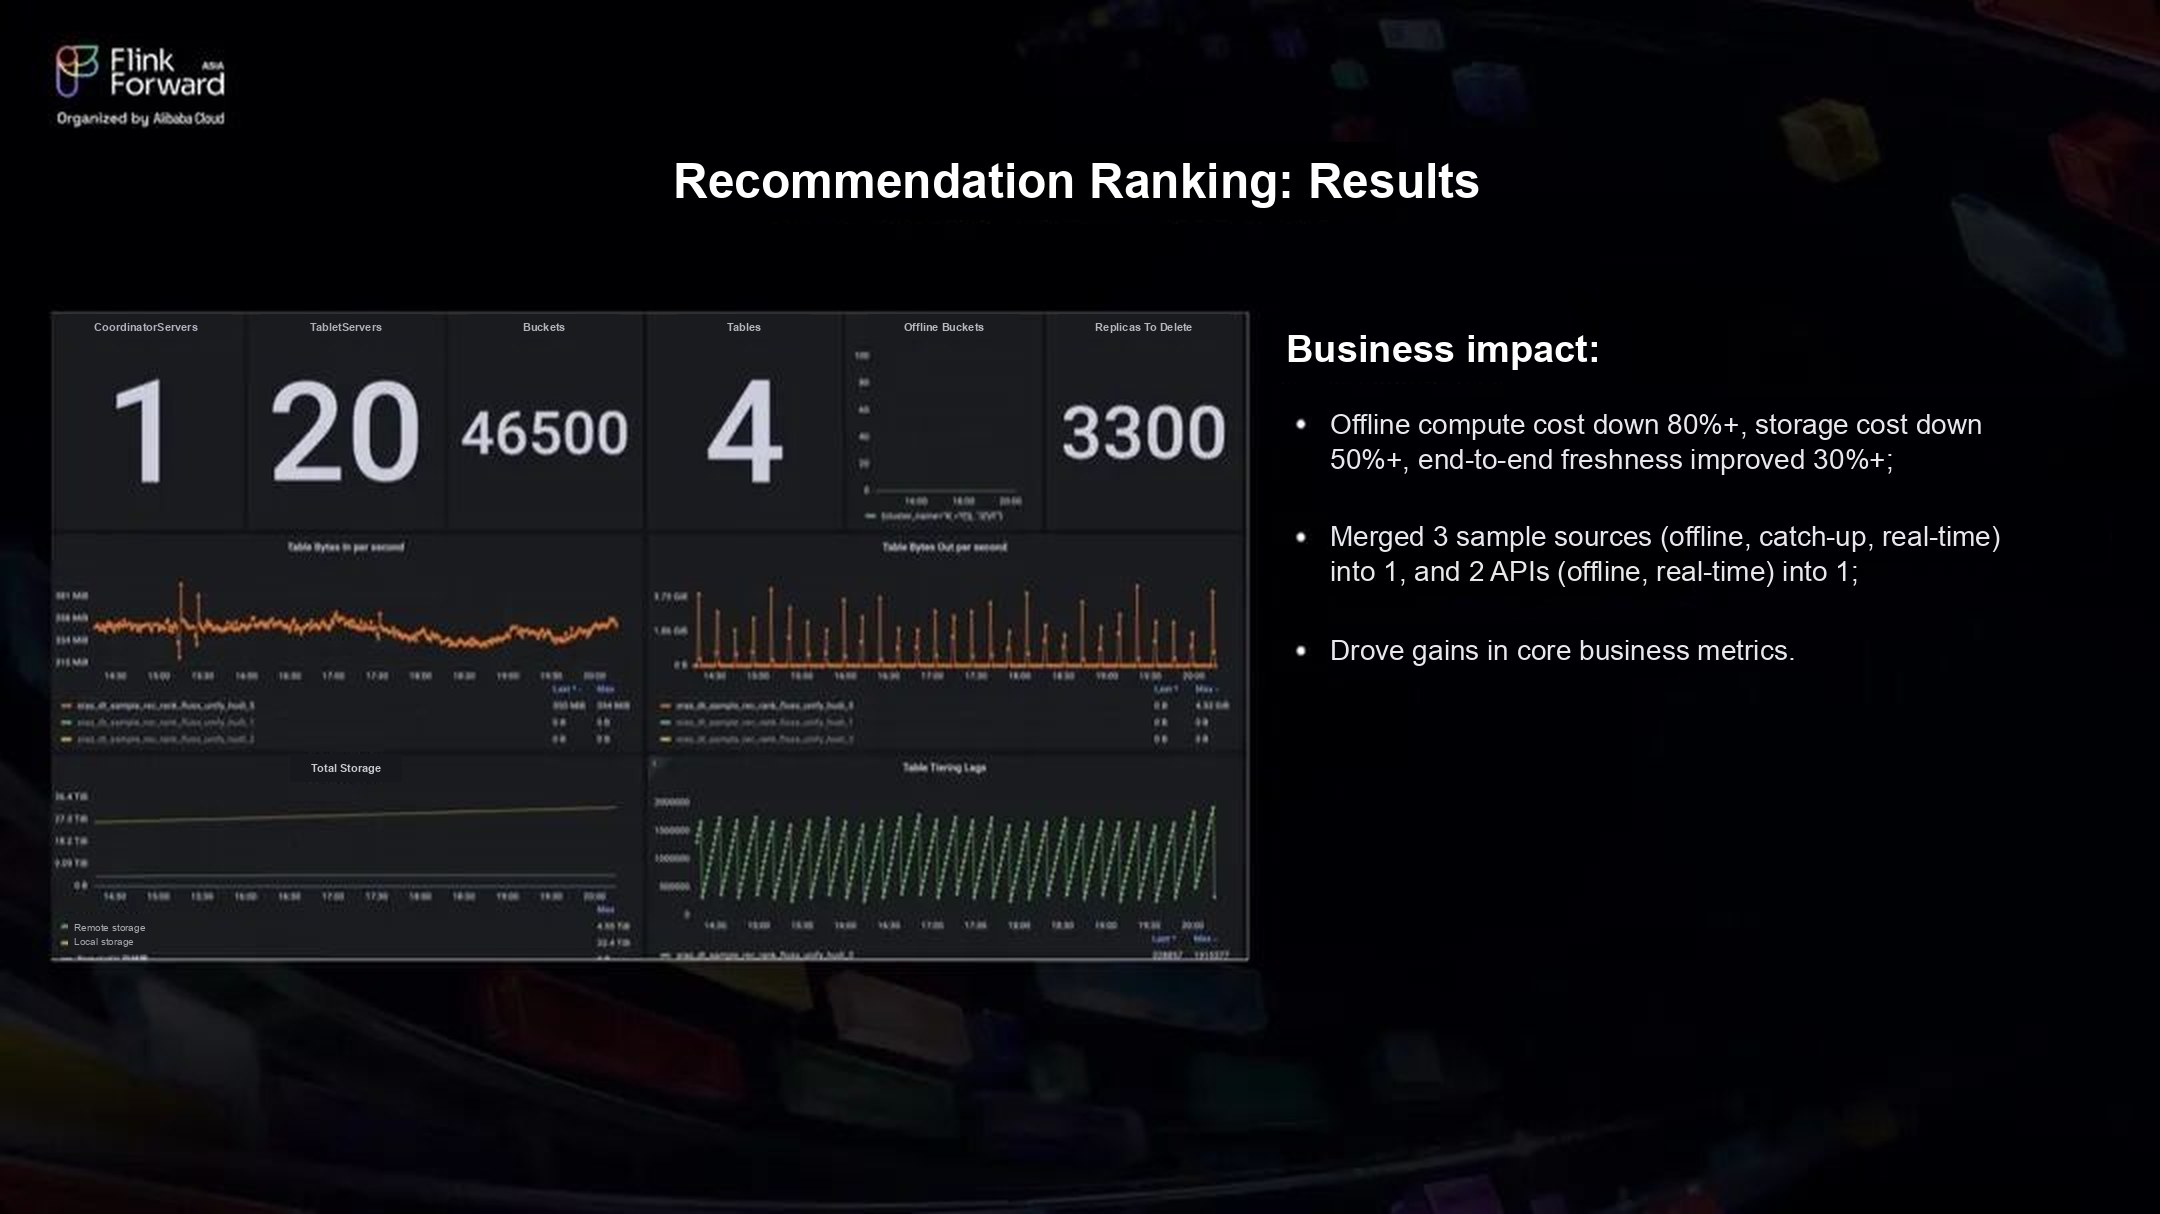
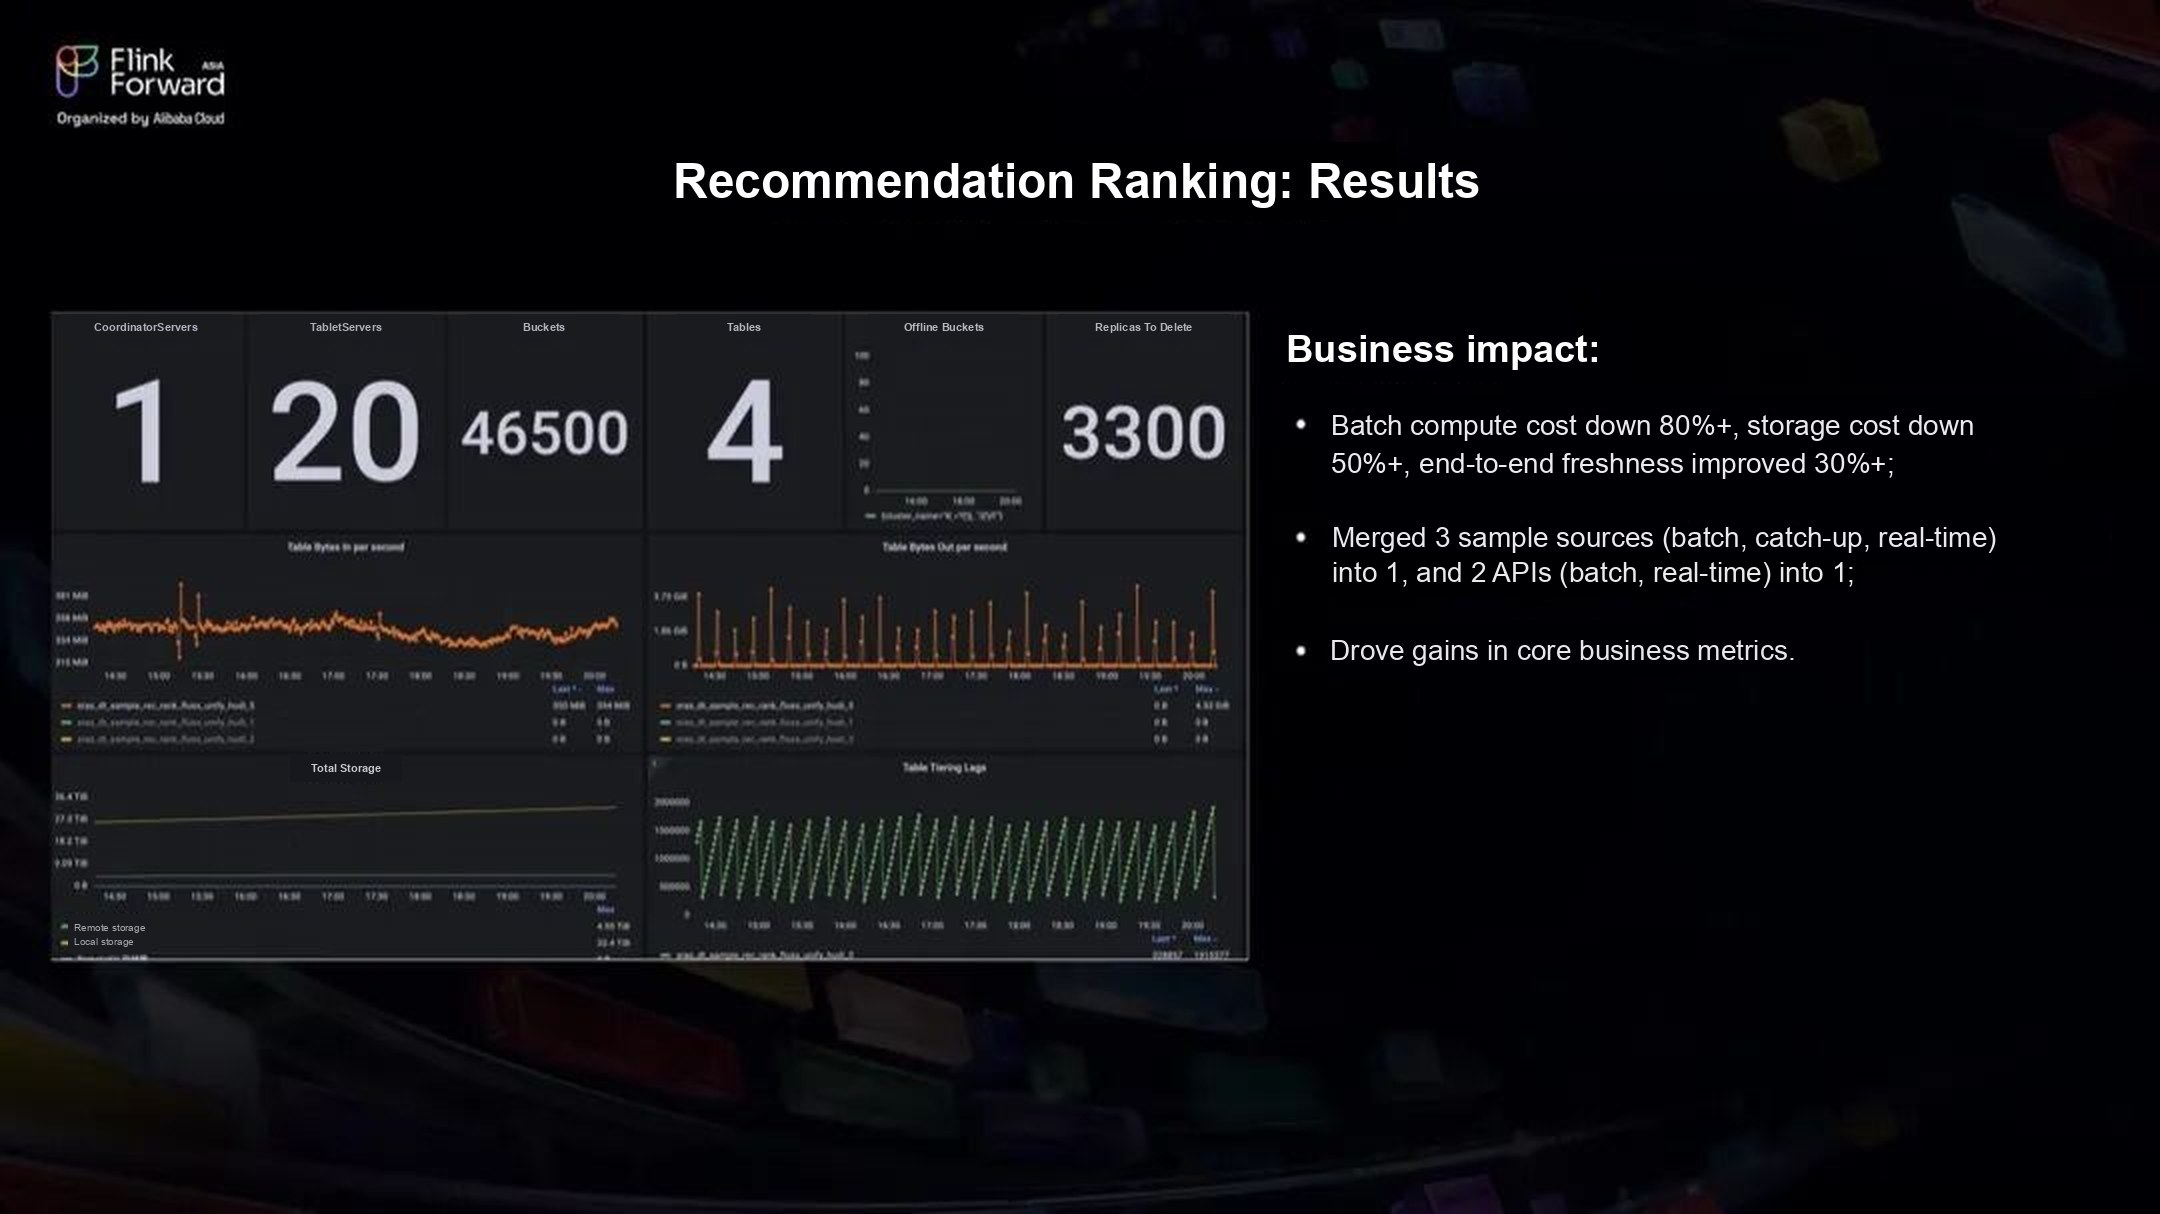
Use batch instead of offline and tighten the TL;DR wording in the JD translation

Changed region(s): [[0.6204, 0.4267, 0.9306, 0.4876], [0.6204, 0.3353, 0.9306, 0.3962]]

diff --git a/website/blog/2026-10-14-how-jd-built-a-lakestream-with-fluss-and-hudi.md b/website/blog/2026-10-14-how-jd-built-a-lakestream-with-fluss-and-hudi.md
@@ -1,7 +1,7 @@
 ---
 title: "How JD.com Built a Lakestream with Apache Fluss and Apache Hudi"
-excerpt: "JD.com keeps fresh data in Apache Fluss and tiers it into Apache Hudi tables, so one copy of data serves both real-time and offline workloads. In recommendation ranking, this cut offline compute cost by more than 80% and storage cost by more than 50%."
-description: "JD.com keeps fresh data in Apache Fluss and tiers it into Apache Hudi tables, so one copy of data serves both real-time and offline workloads. In recommendation ranking, this cut offline compute cost by more than 80% and storage cost by more than 50%."
+excerpt: "JD.com keeps fresh data in Apache Fluss and tiers it into Apache Hudi tables, so one copy of data serves both real-time and batch workloads. In recommendation ranking, this cut batch compute cost by more than 80% and storage cost by more than 50%."
+description: "JD.com keeps fresh data in Apache Fluss and tiers it into Apache Hudi tables, so one copy of data serves both real-time and batch workloads. In recommendation ranking, this cut batch compute cost by more than 80% and storage cost by more than 50%."
 author: "Hou Zhong, Technical Expert at JD.com"
 category: case-study
 image: /assets/images/blog/2026-10-14-how-jd-built-a-lakestream-with-fluss-and-hudi/02-fluss-lake-stream-architecture.jpg
@@ -22,9 +22,9 @@ JD.com runs a large Apache Hudi lakehouse alongside a large Apache Kafka deploym
 
 :::tip TL;DR
 
-- **The problem**: separate real-time and offline pipelines for the same data meant duplicated storage and compute and metric definitions that drifted apart. Consumers of one impression log topic read 195 GB/min to use 6 GB/min.
-- **The approach**: a Lakestream on Fluss and Hudi, so one copy of data serves real-time and offline workloads.
-- **The results in recommendation ranking**: offline compute cost down more than 80%, storage cost down more than 50%, end-to-end training-data freshness improved by more than 30%, three training-data sources merged into one, and better click-through and conversion rates in A/B tests.
+- **The problem**: separate real-time and batch pipelines for the same data meant duplicated storage and compute and metric definitions that drifted apart. Consumers of one impression log topic had to read 195 GB/min to get the 6 GB/min of data they actually needed.
+- **The approach**: a Lakestream on Fluss and Hudi, so one copy of data serves both real-time and batch workloads.
+- **The results in recommendation ranking**: batch compute cost down more than 80%, storage cost down more than 50%, end-to-end training-data freshness improved by more than 30%, three training-data sources merged into one, and better click-through and conversion rates in A/B tests.
 - **The engineering work**: Hudi support for Fluss tiering (being contributed upstream as Fluss Improvement Proposal 24, FIP-24), server-side consumer offset management, and high availability for the Fluss Coordinator.
 
 :::
@@ -54,11 +54,11 @@ Teams use only a small fraction of the data, but the platform pays for all of it
 
 ### Separate Lake and Stream Pipelines Duplicate Work
 
-The second problem is architectural: the lake and the stream are separate systems. Take training data for search and recommendation models. Teams have traditionally run two pipelines side by side. The real-time pipeline quickly turns user activity into fresh training samples and features. The offline pipeline handles backfills, corrections, model training, and analysis. Running both meets different freshness needs, but it creates three problems:
+The second problem is architectural: the lake and the stream are separate systems. Take training data for search and recommendation models. Teams have traditionally run two pipelines side by side. The real-time pipeline quickly turns user activity into fresh training samples and features. The batch pipeline handles backfills, corrections, model training, and analysis. Running both meets different freshness needs, but it creates three problems:
 
 - **Duplicate storage.** Much of the same data is stored more than once, in the message queue and in lake tables.
 - **Duplicate compute.** Both pipelines clean the data, join it, assemble features, and generate samples. Only the execution model differs.
-- **Inconsistent metric definitions.** The two pipelines evolve separately, so field definitions, filters, error handling, and backfill logic drift apart. When a metric moves, teams often have to work out how the real-time and offline numbers are defined before they can investigate.
+- **Inconsistent metric definitions.** The two pipelines evolve separately, so field definitions, filters, error handling, and backfill logic drift apart. When a metric moves, teams often have to work out how the real-time and batch numbers are defined before they can investigate.
 
 ### Why We Adopted Fluss
 
@@ -77,27 +77,27 @@ We chose recommendation ranking as a key production use case. Ranking is the sta
 
 ### Pain Points Before the Redesign
 
-- **Training samples came from scattered sources, which made them hard to build and operate.** Offline and real-time samples came from different pipelines. Teams had to know two tech stacks, keep both pipelines correct and stable, and make every logic change twice. Offline and real-time metric definitions easily diverged between upstream and downstream teams.
+- **Training samples came from scattered sources, which made them hard to build and operate.** Batch and real-time samples came from different pipelines. Teams had to know two tech stacks, keep both pipelines correct and stable, and make every logic change twice. Batch and real-time metric definitions easily diverged between upstream and downstream teams.
 - **Samples were expensive to store and compute.** The same features and labels were stored and computed several times across systems, and neither pipeline could update samples incrementally.
-- **Teams had to trade sample quality against freshness.** The real-time pipeline had a short join window, slow row-based reads, and no shuffle, which limited sample quality. The offline pipeline was slow and hard to backfill, yet fixing real-time samples still depended on it.
+- **Teams had to trade sample quality against freshness.** The real-time pipeline had a short join window, slow row-based reads, and no shuffle, which limited sample quality. The batch pipeline was slow and hard to backfill, yet fixing real-time samples still depended on it.
 
 ![Recommendation ranking background and pain points](/assets/images/blog/2026-10-14-how-jd-built-a-lakestream-with-fluss-and-hudi/03-ranking-before.jpg)
 _Figure 3: Recommendation ranking before the redesign_
 
 ### The New Architecture
 
-The redesign gradually consolidates several parallel pipelines into **one copy of data, consumed in different ways**. Real-time features and labels stream into Fluss first, which supports low-latency writes and minute-level online learning. The tiering service then writes the same data into Hudi tables, where Hudi's efficient backfills support offline analysis, base model training, and catch-up training (training on recently accumulated data to bring a model up to date).
+The redesign gradually consolidates several parallel pipelines into **one copy of data, consumed in different ways**. Real-time features and labels stream into Fluss first, which supports low-latency writes and minute-level online learning. The tiering service then writes the same data into Hudi tables, where Hudi's efficient backfills support batch analysis, base model training, and catch-up training (training on recently accumulated data to bring a model up to date).
 
-Real-time samples now come from Fluss and offline training data from Hudi, and their sources and metric definitions are converging. Field definitions, write paths, and data lifecycle are all managed through Fluss. Engineers no longer have to check whether a field exists in both pipelines and means the same thing in each, and they can spend that time on model quality and product strategy.
+Real-time samples now come from Fluss and batch training data from Hudi, and their sources and metric definitions are converging. Field definitions, write paths, and data lifecycle are all managed through Fluss. Engineers no longer have to check whether a field exists in both pipelines and means the same thing in each, and they can spend that time on model quality and product strategy.
 
 ![Recommendation ranking redesigned on Fluss](/assets/images/blog/2026-10-14-how-jd-built-a-lakestream-with-fluss-and-hudi/04-ranking-on-fluss.jpg)
 _Figure 4: Recommendation ranking on Fluss and Hudi_
 
 ### Results
 
-- **Cost**: offline compute cost **down more than 80%**, storage cost **down more than 50%**.
+- **Cost**: batch compute cost **down more than 80%**, storage cost **down more than 50%**.
 - **Freshness**: end-to-end training-data pipeline freshness **improved by more than 30%**.
-- **Engineering effort**: three training-data sources (offline, catch-up, and real-time) merged into one, and two APIs (offline and real-time) merged into one.
+- **Engineering effort**: three training-data sources (batch, catch-up, and real-time) merged into one, and two APIs (batch and real-time) merged into one.
 - **Business metrics**: core recommendation metrics, including user click-through rate (UCTR) and order conversion rate (UCVR), improved in A/B tests.
 
 The deployment showed that a Lakestream works for this use case. A simpler training-data pipeline, shared metric definitions, and fresher data also shorten the cycle for running and validating model experiments.
